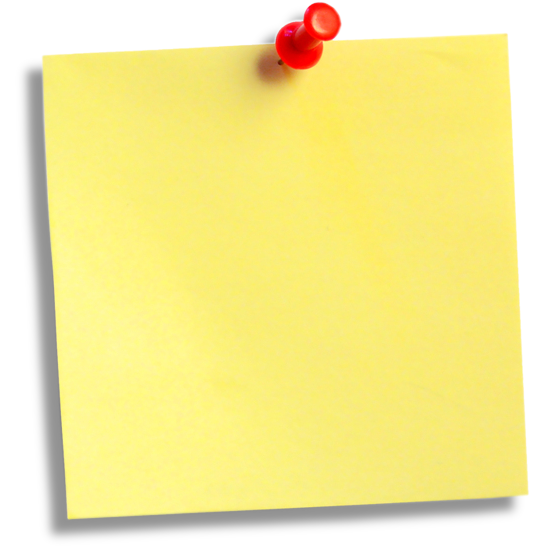
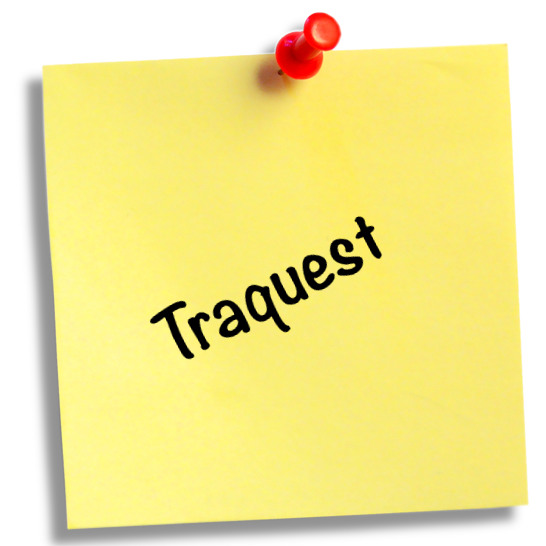
Added new images

diff --git a/EventsPlanner/FBLoginViewController.m b/EventsPlanner/FBLoginViewController.m
@@ -168,39 +168,39 @@
                                                                           metrics:0
                                                                             views:viewDict]];
     
-    NSString *logoLabelText = @"Events\nPlanner";
-    UIFont *logoLabelFont = [UIFont fontWithName:@"Noteworthy-Bold" size:30];
-    CGSize sizeOfText = [logoLabelText sizeWithFont:logoLabelFont
-                                  constrainedToSize:CGSizeMake(1000.0f, 1000.0f)
-                                      lineBreakMode:NSLineBreakByWordWrapping];
+//    NSString *logoLabelText = @"Events\nPlanner";
+//    UIFont *logoLabelFont = [UIFont fontWithName:@"Noteworthy-Bold" size:30];
+//    CGSize sizeOfText = [logoLabelText sizeWithFont:logoLabelFont
+//                                  constrainedToSize:CGSizeMake(1000.0f, 1000.0f)
+//                                      lineBreakMode:NSLineBreakByWordWrapping];
+////    
+////    self.logoLabel = [[UILabel alloc] initWithFrame:CGRectMake(0, 0, sizeOfText.width, sizeOfText.height)];
+//    [self.logoLabel setTranslatesAutoresizingMaskIntoConstraints:NO];
+//    [viewDict addEntriesFromDictionary:@{ @"logoLabel":self.logoLabel }];
+//    self.logoLabel.numberOfLines = 2;
+//    self.logoLabel.textAlignment = NSTextAlignmentCenter;
+//    self.logoLabel.text = logoLabelText;
+//    self.logoLabel.font = logoLabelFont;
+//    self.logoLabel.textColor = [UIColor blackColor];
+//    self.logoLabel.backgroundColor = [UIColor clearColor];
     
-    self.logoLabel = [[UILabel alloc] initWithFrame:CGRectMake(0, 0, sizeOfText.width, sizeOfText.height)];
-    [self.logoLabel setTranslatesAutoresizingMaskIntoConstraints:NO];
-    [viewDict addEntriesFromDictionary:@{ @"logoLabel":self.logoLabel }];
-    self.logoLabel.numberOfLines = 2;
-    self.logoLabel.textAlignment = NSTextAlignmentCenter;
-    self.logoLabel.text = logoLabelText;
-    self.logoLabel.font = logoLabelFont;
-    self.logoLabel.textColor = [UIColor blackColor];
-    self.logoLabel.backgroundColor = [UIColor clearColor];
-    
-    self.logoLabel.transform = CGAffineTransformMakeRotation(-13 * M_PI/180.0);
-    [imageView addSubview:self.logoLabel];
-    [imageView addConstraint:[NSLayoutConstraint constraintWithItem:imageView
-                                                          attribute:NSLayoutAttributeCenterX
-                                                          relatedBy:NSLayoutRelationEqual
-                                                             toItem:self.logoLabel
-                                                          attribute:NSLayoutAttributeCenterX
-                                                         multiplier:1.0
-                                                           constant:0.0]];
-    [imageView addConstraint:[NSLayoutConstraint constraintWithItem:imageView
-                                                          attribute:NSLayoutAttributeCenterY
-                                                          relatedBy:NSLayoutRelationEqual
-                                                             toItem:self.logoLabel
-                                                          attribute:NSLayoutAttributeCenterY
-                                                         multiplier:1.0
-                                                           constant:0.0]];
-
+//    self.logoLabel.transform = CGAffineTransformMakeRotation(-13 * M_PI/180.0);
+//    [imageView addSubview:self.logoLabel];
+//    [imageView addConstraint:[NSLayoutConstraint constraintWithItem:imageView
+//                                                          attribute:NSLayoutAttributeCenterX
+//                                                          relatedBy:NSLayoutRelationEqual
+//                                                             toItem:self.logoLabel
+//                                                          attribute:NSLayoutAttributeCenterX
+//                                                         multiplier:1.0
+//                                                           constant:0.0]];
+//    [imageView addConstraint:[NSLayoutConstraint constraintWithItem:imageView
+//                                                          attribute:NSLayoutAttributeCenterY
+//                                                          relatedBy:NSLayoutRelationEqual
+//                                                             toItem:self.logoLabel
+//                                                          attribute:NSLayoutAttributeCenterY
+//                                                         multiplier:1.0
+//                                                           constant:0.0]];
+//
     
 }
 

diff --git a/EventsPlanner/ActiveEventMapViewController.m b/EventsPlanner/ActiveEventMapViewController.m
@@ -96,6 +96,12 @@ static const NSInteger UpdateFrequencyInSeconds = 2.0;
                                                 userInfo:nil
                                                  repeats:YES];
     [self.timer fire];
+    
+    CLLocationCoordinate2D coord = CLLocationCoordinate2DMake(37.5, -122.7);
+    MKPointAnnotation    *annot = [[MKPointAnnotation alloc]init];
+    annot.coordinate = coord;
+    [self zoomToFitMapAnnotations];
+    
 }
 
 
@@ -206,6 +212,8 @@ static const NSInteger UpdateFrequencyInSeconds = 2.0;
         
     }];
     
+   
+    
 }
 
 
@@ -221,22 +229,27 @@ static const NSInteger UpdateFrequencyInSeconds = 2.0;
         if ([[annotation title] isEqualToString:@"Venue Location"]){
             pinView.pinColor = MKPinAnnotationColorRed;
         } else {
-            pinView.pinColor = MKPinAnnotationColorGreen;
+            pinView.image = [UIImage imageNamed:@"greenLocation.png"];
+
             if (fbIdAnnotation.anonymous == NO) {
                 pinView.leftCalloutAccessoryView = [[UIImageView alloc]
                                                     initWithImage:self.guestData[fbIdAnnotation.fbId][@"userPic"]];
+               
             }
         }
         
-        pinView.canShowCallout = YES;
-        pinView.animatesDrop = YES;
+      
+        
+     
+        
         
     } else {
         
         pinView.annotation = annotation;
         
     }
-    
+    pinView.canShowCallout = YES;
+   // pinView.animatesDrop = YES;
     return pinView;
 }
 

diff --git a/EventsPlanner/EventCellContentView.m b/EventsPlanner/EventCellContentView.m
@@ -66,7 +66,7 @@
                                                                                  relatedBy:NSLayoutRelationEqual
                                                                                     toItem:_eventDateLabel
                                                                                  attribute:NSLayoutAttributeBottom
-                                                                                multiplier:1.0
+                                                                                multiplier:0.8
                                                                                   constant:kMargins];
         NSLayoutConstraint *dateLeftConstraint = [NSLayoutConstraint constraintWithItem:_eventTitleLabel
                                                                                attribute:NSLayoutAttributeLeading
